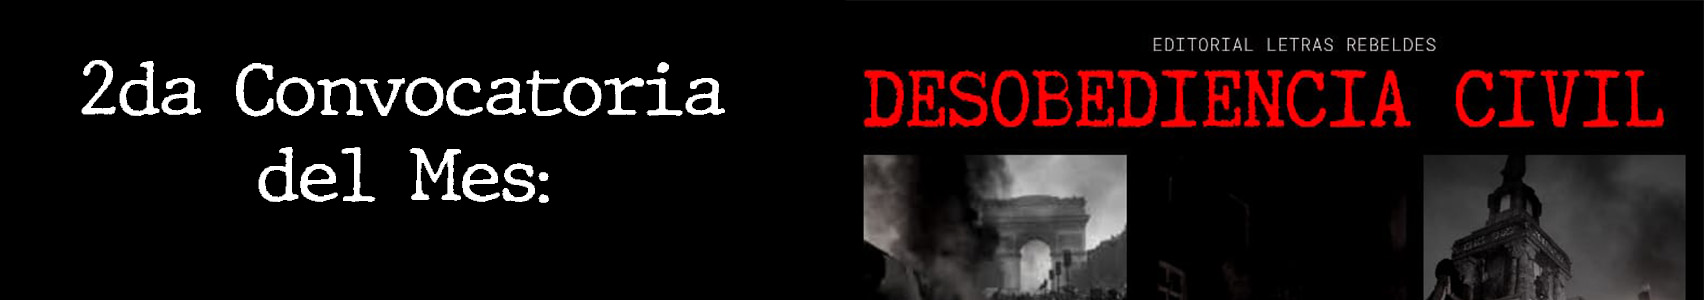
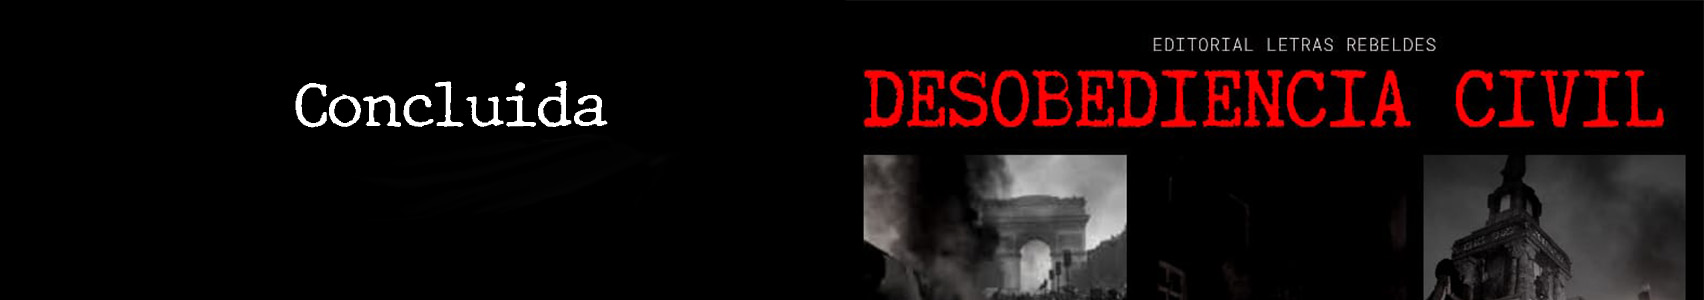
v2asda

Changed region(s): [[0.0311, 0.21, 0.4354, 0.42], [0.1244, 0.48, 0.3421, 0.69]]

diff --git a/tdls.html b/tdls.html
@@ -93,26 +93,38 @@
 <br>
 <div class="jumbotron">
   <!--Titulo del texto--> <!-- Usar <br> para hacer un salto de linea-->
-  <h1 class="display-4" align="center">"Invocaciones"</h1>
-  <h4 align="center">Por: Ikaroo Ambroose</h4>
-  <p class="lead" align="center">Ladridos en la noche. <br>
-El saxofón enloquece<br>
-mientras el piano <br>
-tiembla de miedo.<br>
-Alemania no está <br>
-tan lejos, no, no tanto.<br>
-Insectos caminan pies<br>
-puntillas sobre el sofá.<br>
-Hay sangre en tus dedos.<br>
-No, no tanta. ¿De quién es?<br>
-Pasada la media noche<br>
-los ladridos no paran, una<br>
-mujer canta. <br>
-Hay voces en televisión.<br>
-Hay voces en televisión<br>
-Todos somos el fantasma<br>
-de alguien.</p>
-  <img src="tdlsimg.png" class="mx-auto d-block">
+  <h1 class="display-4" align="center">"Mi alma en llamas"</h1>
+  <h4 align="center">Texto e ilustración: Carlos M Vázquez</h4>
+  <p class="lead" align="left">Ladridos en la noche. <br><img src="tdls2.jpg" class="mx-auto d-block" align="right" width="500px">z
+Me he sumergido,<br>
+dentro de la pupila obscura<br>
+de un anciano cuervo,<br>
+ahí he visto una bella sirena naufragar<br>
+en la piel mortuoria de una lágrima,<br>
+el aliento de un reptil me alcoholiza<br>
+y me corrompe<br>
+entre sueños hipnóticos...<br>
+Entonces el amanecer me inquieta,<br>
+fue algo muy extraño verte <br>
+dentro de mis sueños<br>
+sepultando mis madrugadas,<br>
+en la oscuridad abrí los párpados,<br>
+en ocasiones quisiera creer <br>
+en todo lo divino<br>
+pero...<br>
+mi alma ya está ardiendo en llamas.<br>
+Tengo mucho miedo <br>
+¡mucho miedo! de despertar,<br>
+con la boca de hiel, amarga.<br>
+Y no poder recordar<br>
+ese sabor, dulce a ti,<br>
+caminar hacia el horizonte me da horror,<br>
+un despertar y no encontrarte<br>
+en las líneas de mis manos,<br>
+en el camino del destino,<br>
+no poder ser para ti<br>
+ese cuento maravilloso que imaginaste<br>
+de dragones, castillos y de hadas.....<br></p>
   <hr class="my-4">
 </div>
     <!-- Optional JavaScript -->

diff --git a/conv1.html b/conv1.html
@@ -140,6 +140,9 @@ PD: Para esta edición tenemos una sorpresa virtual.</p>
   <p align="center">¿Tienes tu texto?</p>
   <div align="center">
   <button type="button" class="btn btn-lg btn-primary" disabled>Concuida</button>
+  <a href="https://www.facebook.com/permalink.php?story_fbid=993886227710680&id=623593248073315" target="_blank">
+  <button type="button" class="btn btn-lg btn-primary">Resultados</button>
+</a>
 </div>
 </div>
     <!-- Optional JavaScript -->

diff --git a/index.html b/index.html
@@ -32,7 +32,7 @@
       </li>
       <li class="nav-item dropdown">
         <a class="nav-link dropdown-toggle" href="#" id="navbarDropdown" role="button" data-toggle="dropdown" aria-haspopup="true" aria-expanded="false">
-        Convocatorias en curso.
+        Convocatorias.
         </a>
         <div class="dropdown-menu" aria-labelledby="navbarDropdown">
           <a class="dropdown-item" href="conv1.html">Convocatoria: "Y soñe convertirme en nube"</a>
